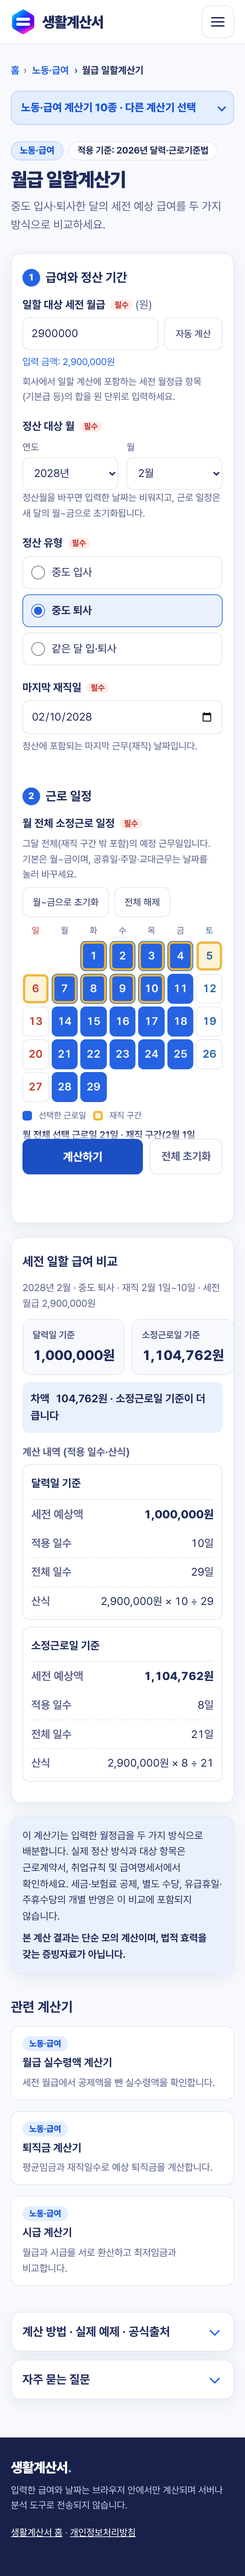
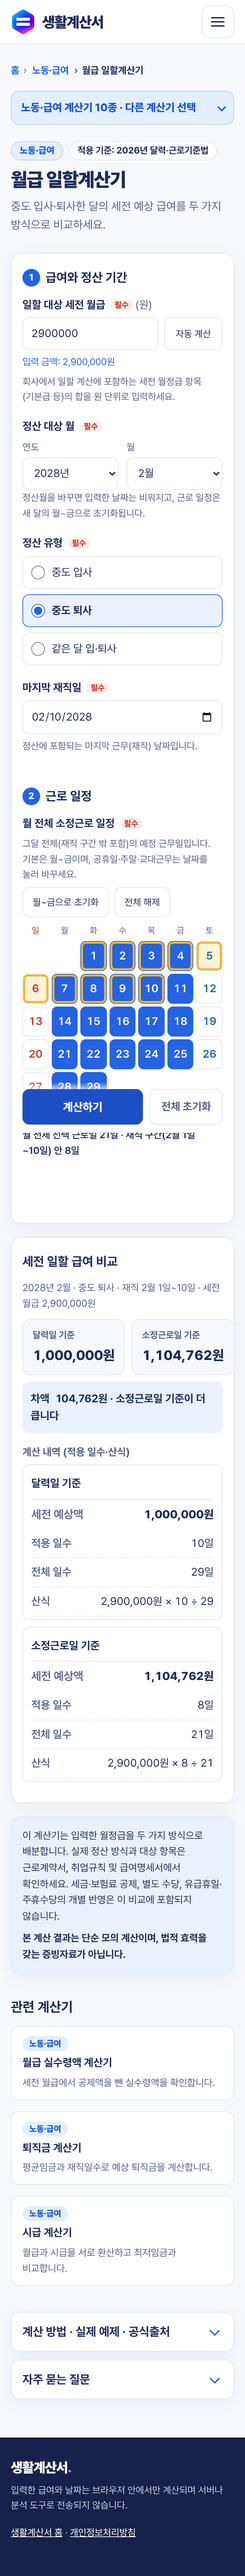
매니페스트 콘텐츠 유형 지정(Netlify 헤더), 운영 사이트 화면 점검 보고서 갱신 (4095d60)
Claude-Session: https://claude.ai/code/session_01Q3BcEdyQ2K5YjfFxHGZibt

diff --git a/docs/test-report-production.md b/docs/test-report-production.md
@@ -1,6 +1,6 @@
 # 생활계산서 검수 결과표
 
-- 실행: 2026-11-21T23:23:20.310Z · 운영용 빌드(dist/, SITE_URL=https://xn--989a2xnd520fn5f.site) · `npm run verify:production` · Chromium(Playwright) · 시간대 Pacific/Kiritimati(UTC+14)
+- 실행: 2026-11-21T23:34:23.565Z · 운영용 빌드(dist/, SITE_URL=https://xn--989a2xnd520fn5f.site) · `npm run verify:production` · Chromium(Playwright) · 시간대 Pacific/Kiritimati(UTC+14)
 - 집계: 통과 134 · 실패 0 · 미확인 3
 
 ## 월급 일할계산기 — 필수 검증 사례 5건 (회귀, 브라우저 직접 입력)

diff --git a/docs/ui/ui-check-report.md b/docs/ui/ui-check-report.md
@@ -1,6 +1,6 @@
 # 화면 자동 점검 결과
 
-- 실행: 2026-11-21T23:20:47.620Z · 대상: 로컬(site/) · 너비 360·390·768·1440px
+- 실행: 2026-11-21T23:32:51.674Z · 대상: https://xn--989a2xnd520fn5f.site · 너비 360·390·768·1440px
 - 집계: 통과 116 · 실패 0
 
 | 위치 | 항목 | 결과 | 실제값(실패 시) |
